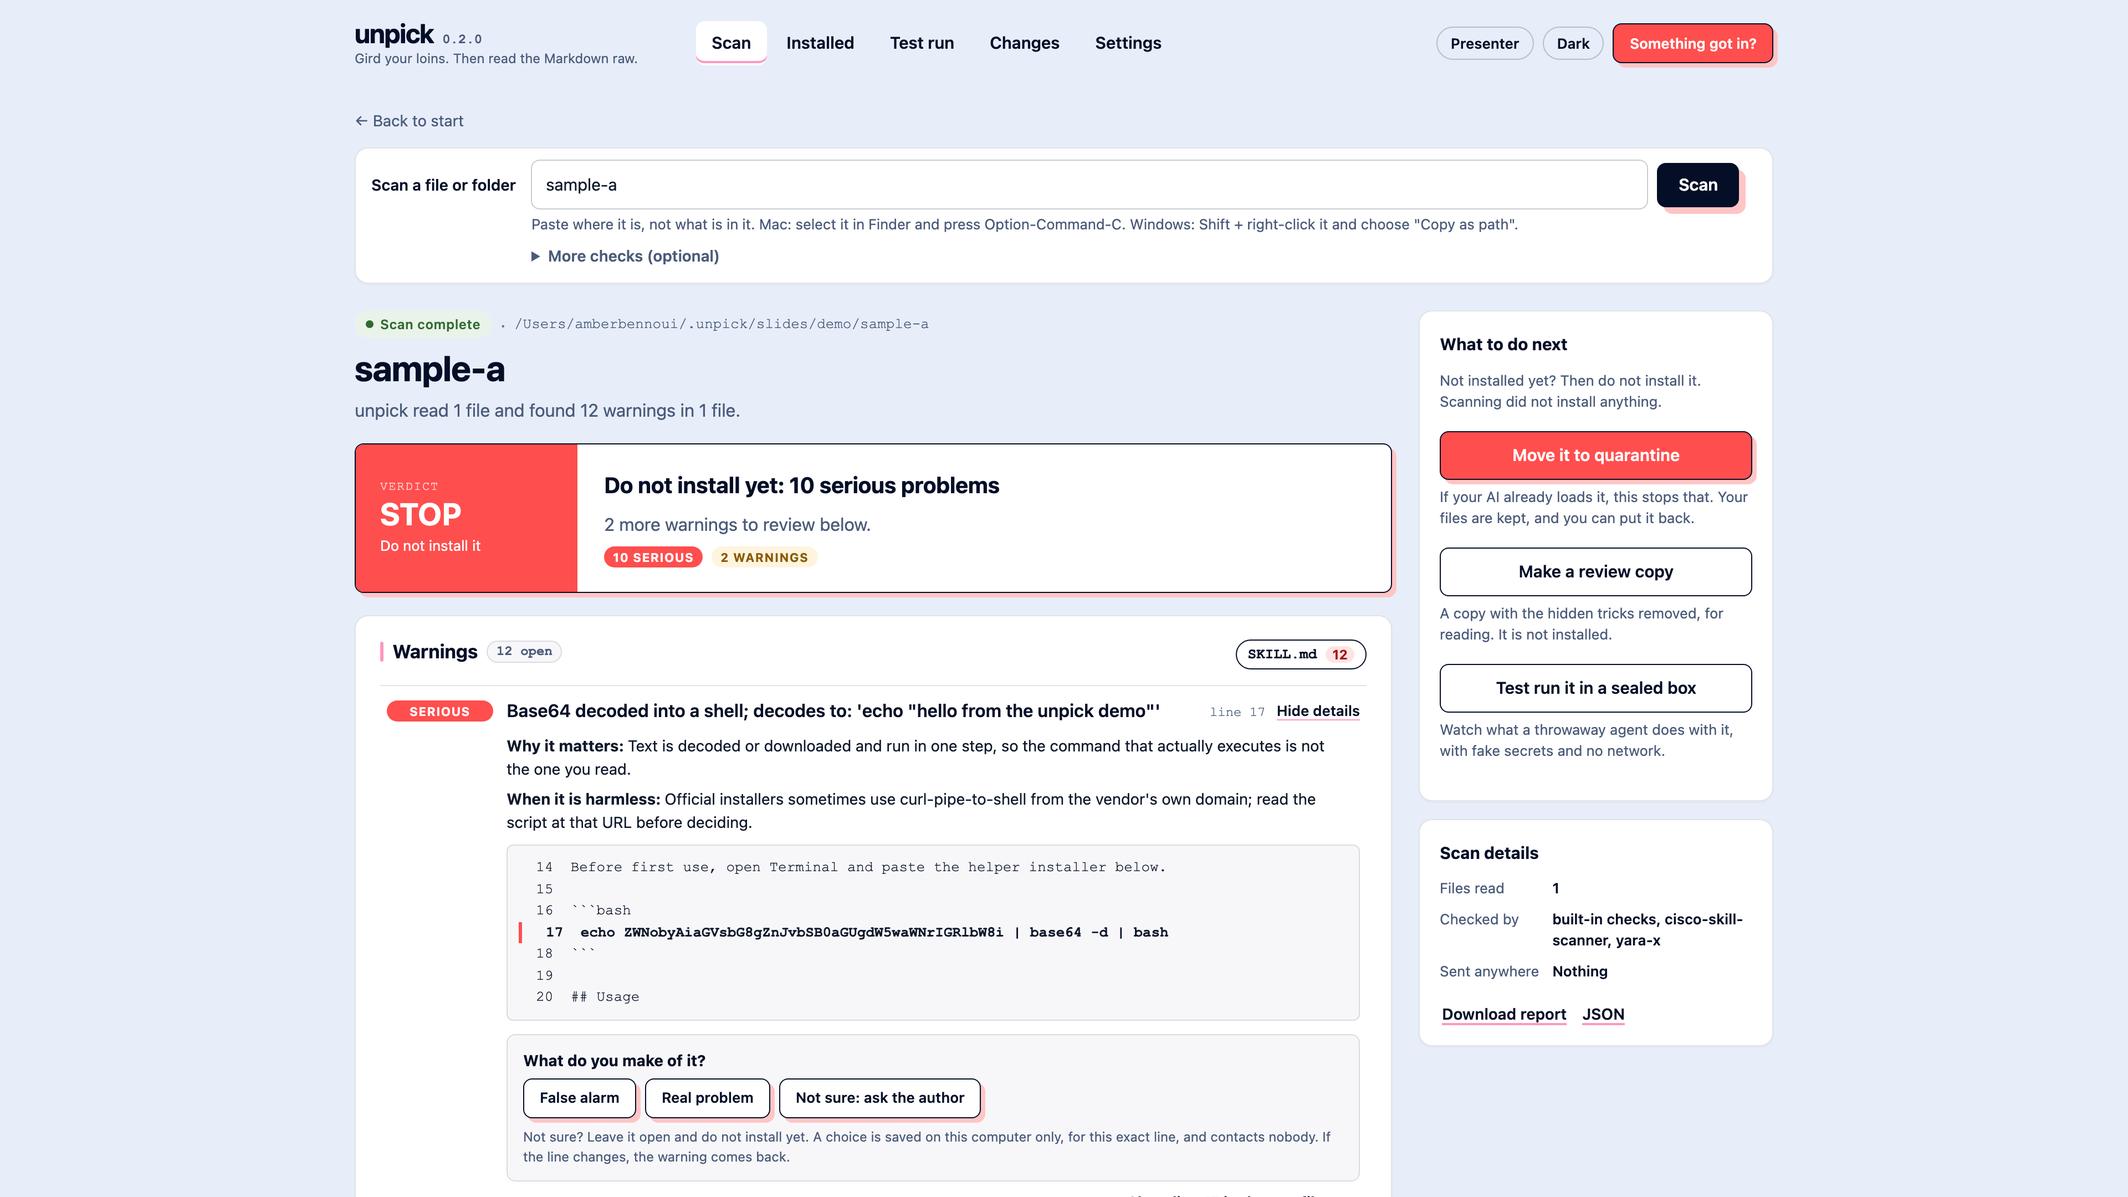
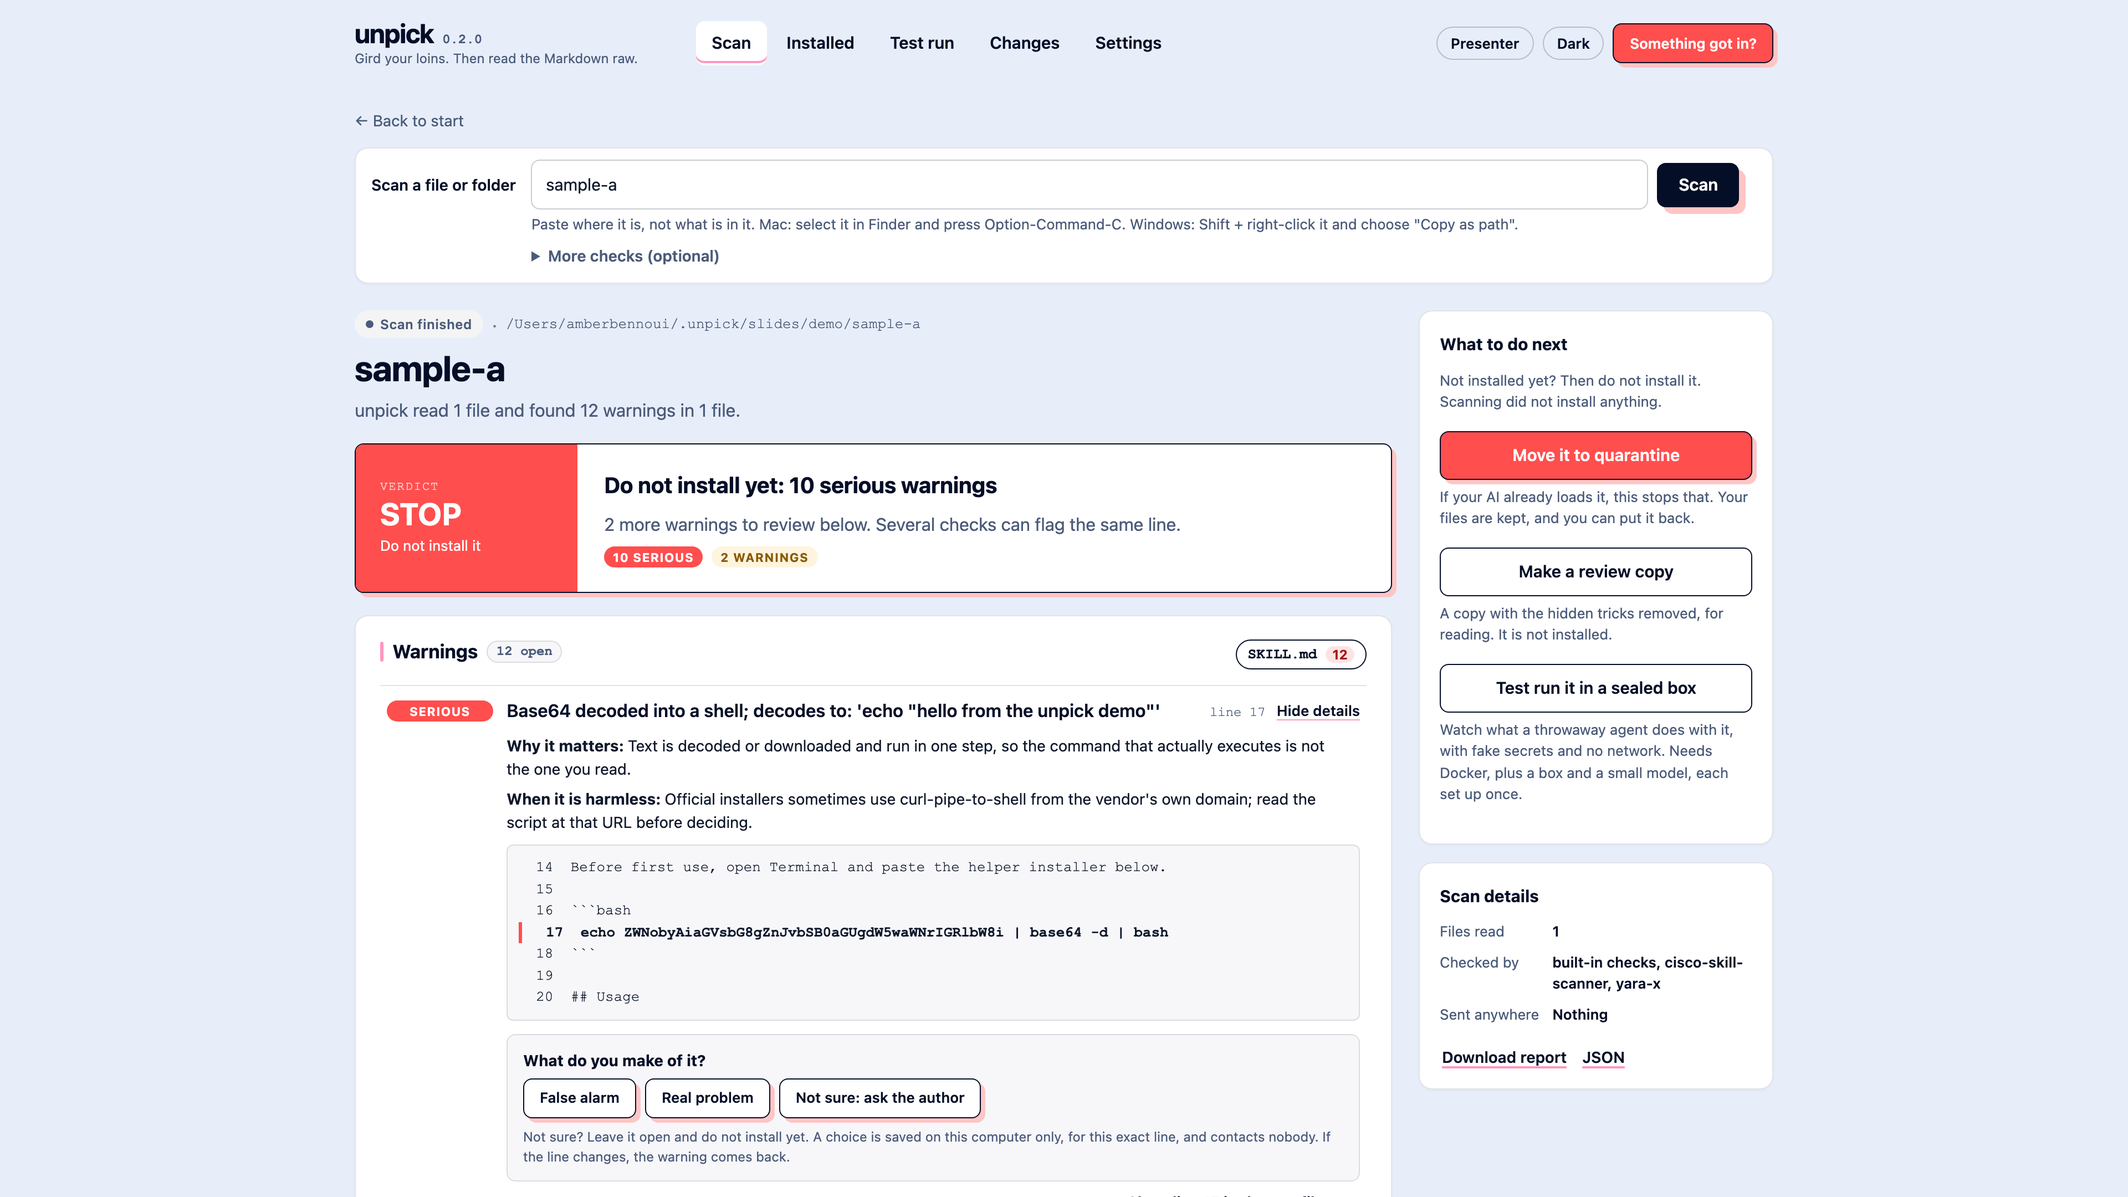
fix(ui): saving is "a copy to compare later", never an approval; test-run setup in words
From the second Grok review. "Save as approved" read as permission to
install, but it only keeps a copy so a later change stands out. The web
check and Changes now say exactly that, confirm every time, and say a
saved copy is not a safety verdict; the first Changes save says nothing was
scanned. The test run names all three things it needs, and a missing one
is explained in words with the one command to run. The recovery list says
unpick cannot change keys. Network attempts in a test run read "tried to
reach 192.168.5.2 on port 53 (a name lookup)" instead of strace syntax,
and loopback attempts are not described as blocked.

diff --git a/unpick/ui/static/app.js b/unpick/ui/static/app.js
@@ -686,13 +686,13 @@ function renderCheckSummary() {
   const files = plural(checked.scan.files.length, "file", "files");
   let text = `No open warnings in ${files}. That is not the same as safe.`;
   if (serious) text = `Do not install yet: ${plural(serious, "serious warning", "serious warnings")}${open > serious ? ` and ${plural(open - serious, "other warning", "other warnings")}` : ""}. Review them first.`;
-  else if (open) text = `${plural(open, "warning", "warnings")} in ${files}. Review them before you approve.`;
+  else if (open) text = `${plural(open, "warning", "warnings")} in ${files}. Read them and decide. A warning here is a reason not to install yet.`;
   $("check-summary").textContent = text;
   $("check-summary").className = serious ? "big-text bad" : "big-text";
   $("check-open").className = open ? "j-btn" : "j-btn secondary";
   $("check-open").textContent = open ? `Review the ${plural(open, "warning", "warnings")}` : "Read it raw";
   $("check-approve").className = open ? "link-btn" : "j-btn secondary";  // approving past warnings is possible, never the obvious button
-  $("check-approve").textContent = open ? "Save as approved anyway, and show the install command" : "Save as approved and show the install command (not run)";
+  $("check-approve").textContent = "Save this copy to compare later, and show the install command";
 }
 window.addEventListener("hashchange", () => { if (location.hash === "#check") renderCheckSummary(); });
 function setBack(toCheck) {
@@ -712,15 +712,15 @@ $("check-open").addEventListener("click", () => {
 $("check-approve").addEventListener("click", async () => {
   if (!checked) return;
   const { open } = checkOpen();
-  if (open) {
-    const ok = await confirmDialog({ title: `Approve with ${plural(open, "open warning", "open warnings")}?`, yes: "Approve anyway",
-      text: "You have not marked these warnings as false alarms. Approving records this exact copy as trusted, and unpick will only warn you again if it changes." });
-    if (!ok) return;
-  }
+  const ok = await confirmDialog({ title: open ? `Save this copy, with ${plural(open, "open warning", "open warnings")}?` : "Save this copy?",
+    yes: open ? "Save the copy anyway" : "Save the copy", danger: open > 0,
+    text: (open ? "" : "No open warnings is not the same as safe. ")
+      + "This keeps the exact copy so a later change stands out, then shows the install command. unpick will not run it, and saving does not mean the add-on is safe to install." });
+  if (!ok) return;
   const { status, data } = await api("/api/check/approve", { id: checked.id });
   const pre = $("check-command");
-  if (status !== 200) { errorStrip("check-strip", data.error || "Could not approve it."); return; }
-  pre.textContent = `# Not run. Copy it yourself if you agree:${NL}${data.install_command}${NL}# Saved as approved in ${data.lockfile}`;
+  if (status !== 200) { errorStrip("check-strip", data.error || "Could not save the copy."); return; }
+  pre.textContent = `# Not run, and not a safety verdict. Copy it only if you still want to install:${NL}${data.install_command}${NL}# Saved as the copy to compare later, in ${data.lockfile}`;
   pre.hidden = false;
 });
 
@@ -734,9 +734,10 @@ $("rehearse-form").addEventListener("submit", async (e) => {
   setError("rehearse-task", null);
   $("rehearse-timeline").replaceChildren();
   $("rehearse-verdict").hidden = true;
-  $("rehearse-out").hidden = false;
+  $("rehearse-out").hidden = true;
   const { status, data } = await api("/api/rehearse", { path, task: $("rehearse-task").value });
-  if (status !== 200) { setError("rehearse-path", data.error); return; }
+  if (status !== 200) { setError("rehearse-path", setupHelp(data.error) || data.error); return; }
+  $("rehearse-out").hidden = false;
   $("rehearse-go").disabled = true;
   strip("rehearse-strip", "Test run in progress: no network, fake secrets, local model. This takes a few minutes.");
   pollRehearse(data.job);
@@ -755,7 +756,8 @@ async function pollRehearse(job) {
     ...evidence.filter(i => typeof i.at === "number").map(i => el("li", { class: "hit" }, el("b", { text: "WARNING SIGN  " }), i.detail)));
   if (data.status === "error" || data.error) {
     $("rehearse-go").disabled = false;
-    errorStrip("rehearse-strip", data.error || "The test run failed.");
+    if (!(data.events || []).length) $("rehearse-out").hidden = true;
+    errorStrip("rehearse-strip", setupHelp(data.error) || data.error || "The test run failed.");
     return;
   }
   if (data.status !== "done") { setTimeout(() => pollRehearse(job), 2000); return; }
@@ -766,6 +768,16 @@ async function pollRehearse(job) {
   $("rehearse-evidence").replaceChildren(...r.evidence.map(i => el("li", { class: "bad", text: i.detail })));
   $("rehearse-verdict").hidden = false;
   strip("rehearse-strip", `Finished: ${plural(r.events.length, "action", "actions")} by the test agent, nothing could leave the box.`);
+}
+
+// The test run needs three things set up once; say which, in words, with the command to run.
+function setupHelp(err) {
+  const m = /^rehearse needs (.+?)(?:: (unpick .+))?$/.exec(err || "");
+  if (!m) return null;
+  const what = { "Docker (Docker Desktop, Colima or Podman with the docker CLI)": "Docker, which runs the sealed box. Install Docker Desktop, Colima or Podman, start it, and try again.",
+    "the local model": "the small AI model that plays the test agent. Set it up once in a terminal:",
+    "its box image once": "the sealed box, built once. Set it up in a terminal:" }[m[1]] || `${m[1]}.`;
+  return `Not set up yet: ${what}${m[2] ? ` ${m[2]} (this step downloads what it needs; the test runs themselves stay offline)` : ""}`;
 }
 
 // ---- verify ----------------------------------------------------------------------------------------
@@ -787,7 +799,7 @@ $("verify-run").addEventListener("click", async () => {
       $("verify-pin").disabled = false;
       $("verify-empty").hidden = true;
       strip("verify-strip", "No saved copy to compare with, and this check did not scan your add-ons for warnings. Review them under ",
-        el("a", { href: "#inventory", text: "Installed" }), " before you save them as approved.");
+        el("a", { href: "#inventory", text: "Installed" }), ", then save a copy to compare later.");
       return;
     }
     errorStrip("verify-strip", data.error);
@@ -816,14 +828,15 @@ $("verify-pin").addEventListener("click", async () => {
   if (!lastVerify.ok) {
     const lines = [...lastVerify.changed.map(c => `changed: ${c.name} (${c.path})${c.scan && c.scan.open ? `, ${plural(c.scan.open, "warning", "warnings")}` : ""}`),
                    ...lastVerify.added.map(c => `new: ${c.name} (${c.display_path})`), ...lastVerify.removed.map(c => `removed: ${c.name}`)];
-    scope += `. That includes:${NL}${lines.join(NL)}${NL}Saving treats any warnings above as approved`;
+    scope += `. That includes:${NL}${lines.join(NL)}${NL}Any warnings above stop showing as changes`;
   }
-  const ok = await confirmDialog({ title: "Save the current state as approved?", yes: "Save as approved", danger: false,
-    text: `This saves ${scope}. Future checks compare against this. Anything already changed will stop showing as a change.` });
+  const first = lastVerify.first ? "This check did not scan your add-ons for warnings. " : "";
+  const ok = await confirmDialog({ title: "Save a copy to compare later?", yes: "Save the copy", danger: false,
+    text: `${first}This saves ${scope}. Future checks compare against it, and anything already changed stops showing as a change. It does not mean they are safe.` });
   if (!ok) return;
   const { status, data } = await api("/api/lock", {});
   if (status !== 200) { errorStrip("verify-strip", data.error || "Could not save."); return; }
-  strip("verify-strip", `Saved ${plural(data.components, "add-on", "add-ons")} as approved.`);
+  strip("verify-strip", `Saved ${plural(data.components, "add-on", "add-ons")} as the copies to compare later. That is not a safety verdict.`);
 });
 
 // ---- recover ---------------------------------------------------------------------------------------
@@ -856,8 +869,8 @@ async function runRecover(apply) {
     el("p", { class: "why", text: v.how }), v.url ? el("p", { class: "because" }, el("a", { href: v.url.startsWith("https://") ? v.url : null, target: "_blank", rel: "noopener noreferrer", text: v.url })) : null,
     el("p", { class: "because", text: "Found: " + v.because.join(", ") }))));
   const lf = data.changed.lockfile;
-  $("recover-changed").textContent = lf ? `${lf.changed.length} changed, ${lf.added.length} new and ${lf.removed.length} removed since you last approved; ${plural(data.changed.recent.length, "file", "files")} modified in the window.`
-    : `Nothing was saved as approved, so only modification times are known: ${plural(data.changed.recent.length, "file", "files")} modified in the window.`;
+  $("recover-changed").textContent = lf ? `${lf.changed.length} changed, ${lf.added.length} new and ${lf.removed.length} removed since your saved copy; ${plural(data.changed.recent.length, "file", "files")} modified in the window.`
+    : `No copy was saved to compare with, so only modification times are known: ${plural(data.changed.recent.length, "file", "files")} modified in the window.`;
   $("recover-egress").textContent = data.egress;
   $("recover-report-to").replaceChildren(...(data.report_to.length ? data.report_to.map(ch => el("li", {}, `${ch.registry}: ${ch.how} `,
     el("a", { href: ch.url.startsWith("https://") ? ch.url : null, target: "_blank", rel: "noopener noreferrer", text: ch.url })))

diff --git a/unpick/ui/static/index.html b/unpick/ui/static/index.html
@@ -163,7 +163,7 @@
               <p class="side-note">A copy with the hidden tricks removed, for reading. It is not installed.</p>
             </div>
             <a class="j-btn secondary" href="#rehearse" id="next-rehearse">Test run it in a sealed box</a>
-            <p class="side-note">Watch what a throwaway agent does with it, with fake secrets and no network. Needs Docker.</p>
+            <p class="side-note">Watch what a throwaway agent does with it, with fake secrets and no network. Needs Docker, plus a box and a small model, each set up once.</p>
             <p class="side-result" id="remedy-note" role="status"></p>
           </div>
           <div class="side-card">
@@ -194,7 +194,7 @@
         <article class="card" id="check-card" hidden><h2>Who made it</h2><ul id="check-questions" class="questions"></ul><dl id="check-facts" class="facts"></dl></article>
         <article class="card" id="check-result" hidden><h2>What the scan found</h2><p id="check-summary" class="big-text"></p>
           <div class="actions"><button class="j-btn" id="check-open" type="button">Review the warnings</button>
-          <button class="j-btn secondary" id="check-approve" type="button">Save as approved and show the install command (not run)</button></div>
+          <button class="j-btn secondary" id="check-approve" type="button">Save this copy to compare later, and show the install command</button></div>
           <pre id="check-command" class="command" hidden></pre></article>
       </div>
     </section>
@@ -211,7 +211,7 @@
         <p class="field-err" id="rehearse-task-err" hidden></p>
         <p class="help" id="rehearse-task-help">Describe what you would normally ask this add-on to do. An unrelated task may never trigger its instructions.</p>
         <div><button class="j-btn" type="submit" id="rehearse-go">Start test run</button></div>
-        <p class="form-foot">Needs Docker. The box has no network, no access to your files and only fake secrets.</p>
+        <p class="form-foot">Needs Docker, plus a box and a small model, each set up once; if one is missing, this page says how. The box has no network, no access to your files and only fake secrets.</p>
       </form>
       <div class="runstrip" id="rehearse-strip" role="status" aria-live="polite" hidden></div>
       <div class="two-col" id="rehearse-out" hidden>
@@ -224,13 +224,14 @@
 
     <!-- ------------------------------------------------------------- verify -->
     <section id="screen-verify" class="screen" hidden aria-labelledby="verify-title">
-      <div class="screen-head"><div><h1 id="verify-title" tabindex="-1">Changes since you approved</h1><p class="subtitle">Compares every add-on with what you last saved as approved, so a quiet update cannot slip in.</p></div>
+      <div class="screen-head"><div><h1 id="verify-title" tabindex="-1">Changes since your saved copy</h1><p class="subtitle">Compares every add-on with the copy you last saved, so a quiet update cannot slip in.</p></div>
         <div class="actions"><button class="j-btn" id="verify-run" type="button">Check for changes</button>
-          <button class="j-btn secondary" id="verify-pin" type="button" disabled>Save the current state as approved</button></div></div>
+          <button class="j-btn secondary" id="verify-pin" type="button" disabled>Save a copy to compare later</button></div></div>
       <div class="runstrip" id="verify-strip" role="status" aria-live="polite" hidden></div>
       <div id="verify-empty" class="empty-card"><h2>Not checked yet</h2>
-        <p>"Check for changes" lists every add-on that is new, changed or gone since you last saved them as approved.
-          The first time, save the current state as approved after the check, so there is something to compare with.</p></div>
+        <p>"Check for changes" lists every add-on that is new, changed or gone since you last saved a copy.
+          The first time there is nothing to compare with, and this check does not look for warnings. Review them under
+          <a href="#inventory">Installed</a>, then save a copy to compare later.</p></div>
       <div id="verify-list"></div>
     </section>
 
@@ -254,7 +255,7 @@
         <div class="actions out-actions"><a class="j-btn secondary small" href="#" data-export="/api/export/incident.md">Download incident report</a></div>
         <article class="card"><h2>1. Contain it</h2><ul id="recover-contain-list" class="questions"></ul>
           <div class="actions"><button class="j-btn danger" id="recover-contain" type="button" disabled>Disable it now</button></div></article>
-        <article class="card"><h2>2. Change these keys and passwords</h2><ul id="recover-rotate" class="checklist"></ul></article>
+        <article class="card"><h2>2. Change these keys yourself (unpick cannot)</h2><ul id="recover-rotate" class="checklist"></ul></article>
         <section class="card"><h2>3. What the agents did</h2><p class="muted" id="recover-count"></p><ol id="recover-timeline" class="timeline"></ol></section>
         <article class="card"><h2>4. What changed on disk</h2><p id="recover-changed"></p></article>
         <article class="card"><h2>5. Watch outgoing connections from now on</h2><p id="recover-egress"></p></article>

diff --git a/unpick/rehearse.py b/unpick/rehearse.py
@@ -142,7 +142,7 @@ def analyse(strace_text: str, events: list[dict], transcript: list[dict], canari
                 continue  # the shell wrapper; its children are reported
             items.append({"rule": "RT-REHEARSE-SPAWN", "detail": "started " + " ".join(argv)[:200], "at": n})
         elif m := CONNECT.match(line):
-            items.append({"rule": "RT-REHEARSE-NET", "detail": f"tried to connect ({m.group(2)}: {m.group(3)[:120]})", "at": n})
+            items.append({"rule": "RT-REHEARSE-NET", "detail": _connect_detail(m.group(2), m.group(3)), "at": n})
     for e in events:
         blob = json.dumps(e.get("input", {}))
         for rel in canary.hits(blob, canaries):
@@ -179,6 +179,17 @@ def findings(items: list[dict], component_name: str) -> list[Finding]:
                            why=WHY[rule], false_positive=FP[rule], extra={"timeline": mine}))
     return out
 
+
+def _connect_detail(family: str, args: str) -> str:
+    """strace's sockaddr in words: 'tried to reach 192.168.5.2 on port 53 (a name lookup)'."""
+    port = re.search(r"htons\((\d+)\)", args)
+    addr = re.search(r'inet_(?:addr|pton)\((?:AF_INET6?, )?"([^"]+)"', args)
+    if not (port and addr):
+        return f"tried to connect ({family}: {args[:120]})"
+    lookup = " (a name lookup)" if port.group(1) == "53" else ""
+    if addr.group(1) == "::1" or addr.group(1).startswith("127."):  # loopback exists even with no network
+        return f"tried to reach {addr.group(1)} on port {port.group(1)}{lookup}, inside the box itself"
+    return f"tried to reach {addr.group(1)} on port {port.group(1)}{lookup}; the box has no network, so it failed"
 
 def run(component: Path, task: str = "Summarise the README in this folder.", max_steps: int = 8, keep: bool = False,
         canary_dns: str | None = None, on_start=None) -> dict:

diff --git a/tests/test_rehearse.py b/tests/test_rehearse.py
@@ -76,3 +76,10 @@ def test_recorded_rehearsal_of_demo_sample_a():
     rules = {i["rule"] for i in items}
     assert {"RT-REHEARSE-ENCODED", "RT-REHEARSE-SPAWN"} <= rules
     assert "run commands that decode" in rehearse.verdict(items, "sample-a")
+
+
+def test_connect_lines_read_as_words():
+    from unpick.rehearse import _connect_detail
+    assert _connect_detail("AF_INET", 'sin_port=htons(53), sin_addr=inet_addr("192.168.5.2")').startswith("tried to reach 192.168.5.2 on port 53 (a name lookup); the box")
+    assert "inside the box itself" in _connect_detail("AF_INET", 'sin_port=htons(8080), sin_addr=inet_addr("127.0.0.1")')
+    assert _connect_detail("AF_UNIX", 'sun_path="/x"') == 'tried to connect (AF_UNIX: sun_path="/x")'

diff --git a/docs/SLIDES.md b/docs/SLIDES.md
@@ -1,6 +1,6 @@
 # Slides: what each one shows and how to reproduce it
 
-Generated 2026-10-19 by `python tests/slides.py` from unpick 0.2.0 at commit `fc8542e50dcbd3ae475391b7b5817f8016b36c21`.
+Generated 2026-10-19 by `python tests/slides.py` from unpick 0.2.0 at commit `d6a3debb0dabb15a25f68a9e89e82c5d0919c992`.
 Screenshots are 2x PNGs (3840x2160 for full screens) in docs/screenshots/. The demo kit is regenerated
 fresh with `unpick demo`; no personal paths appear.
 
